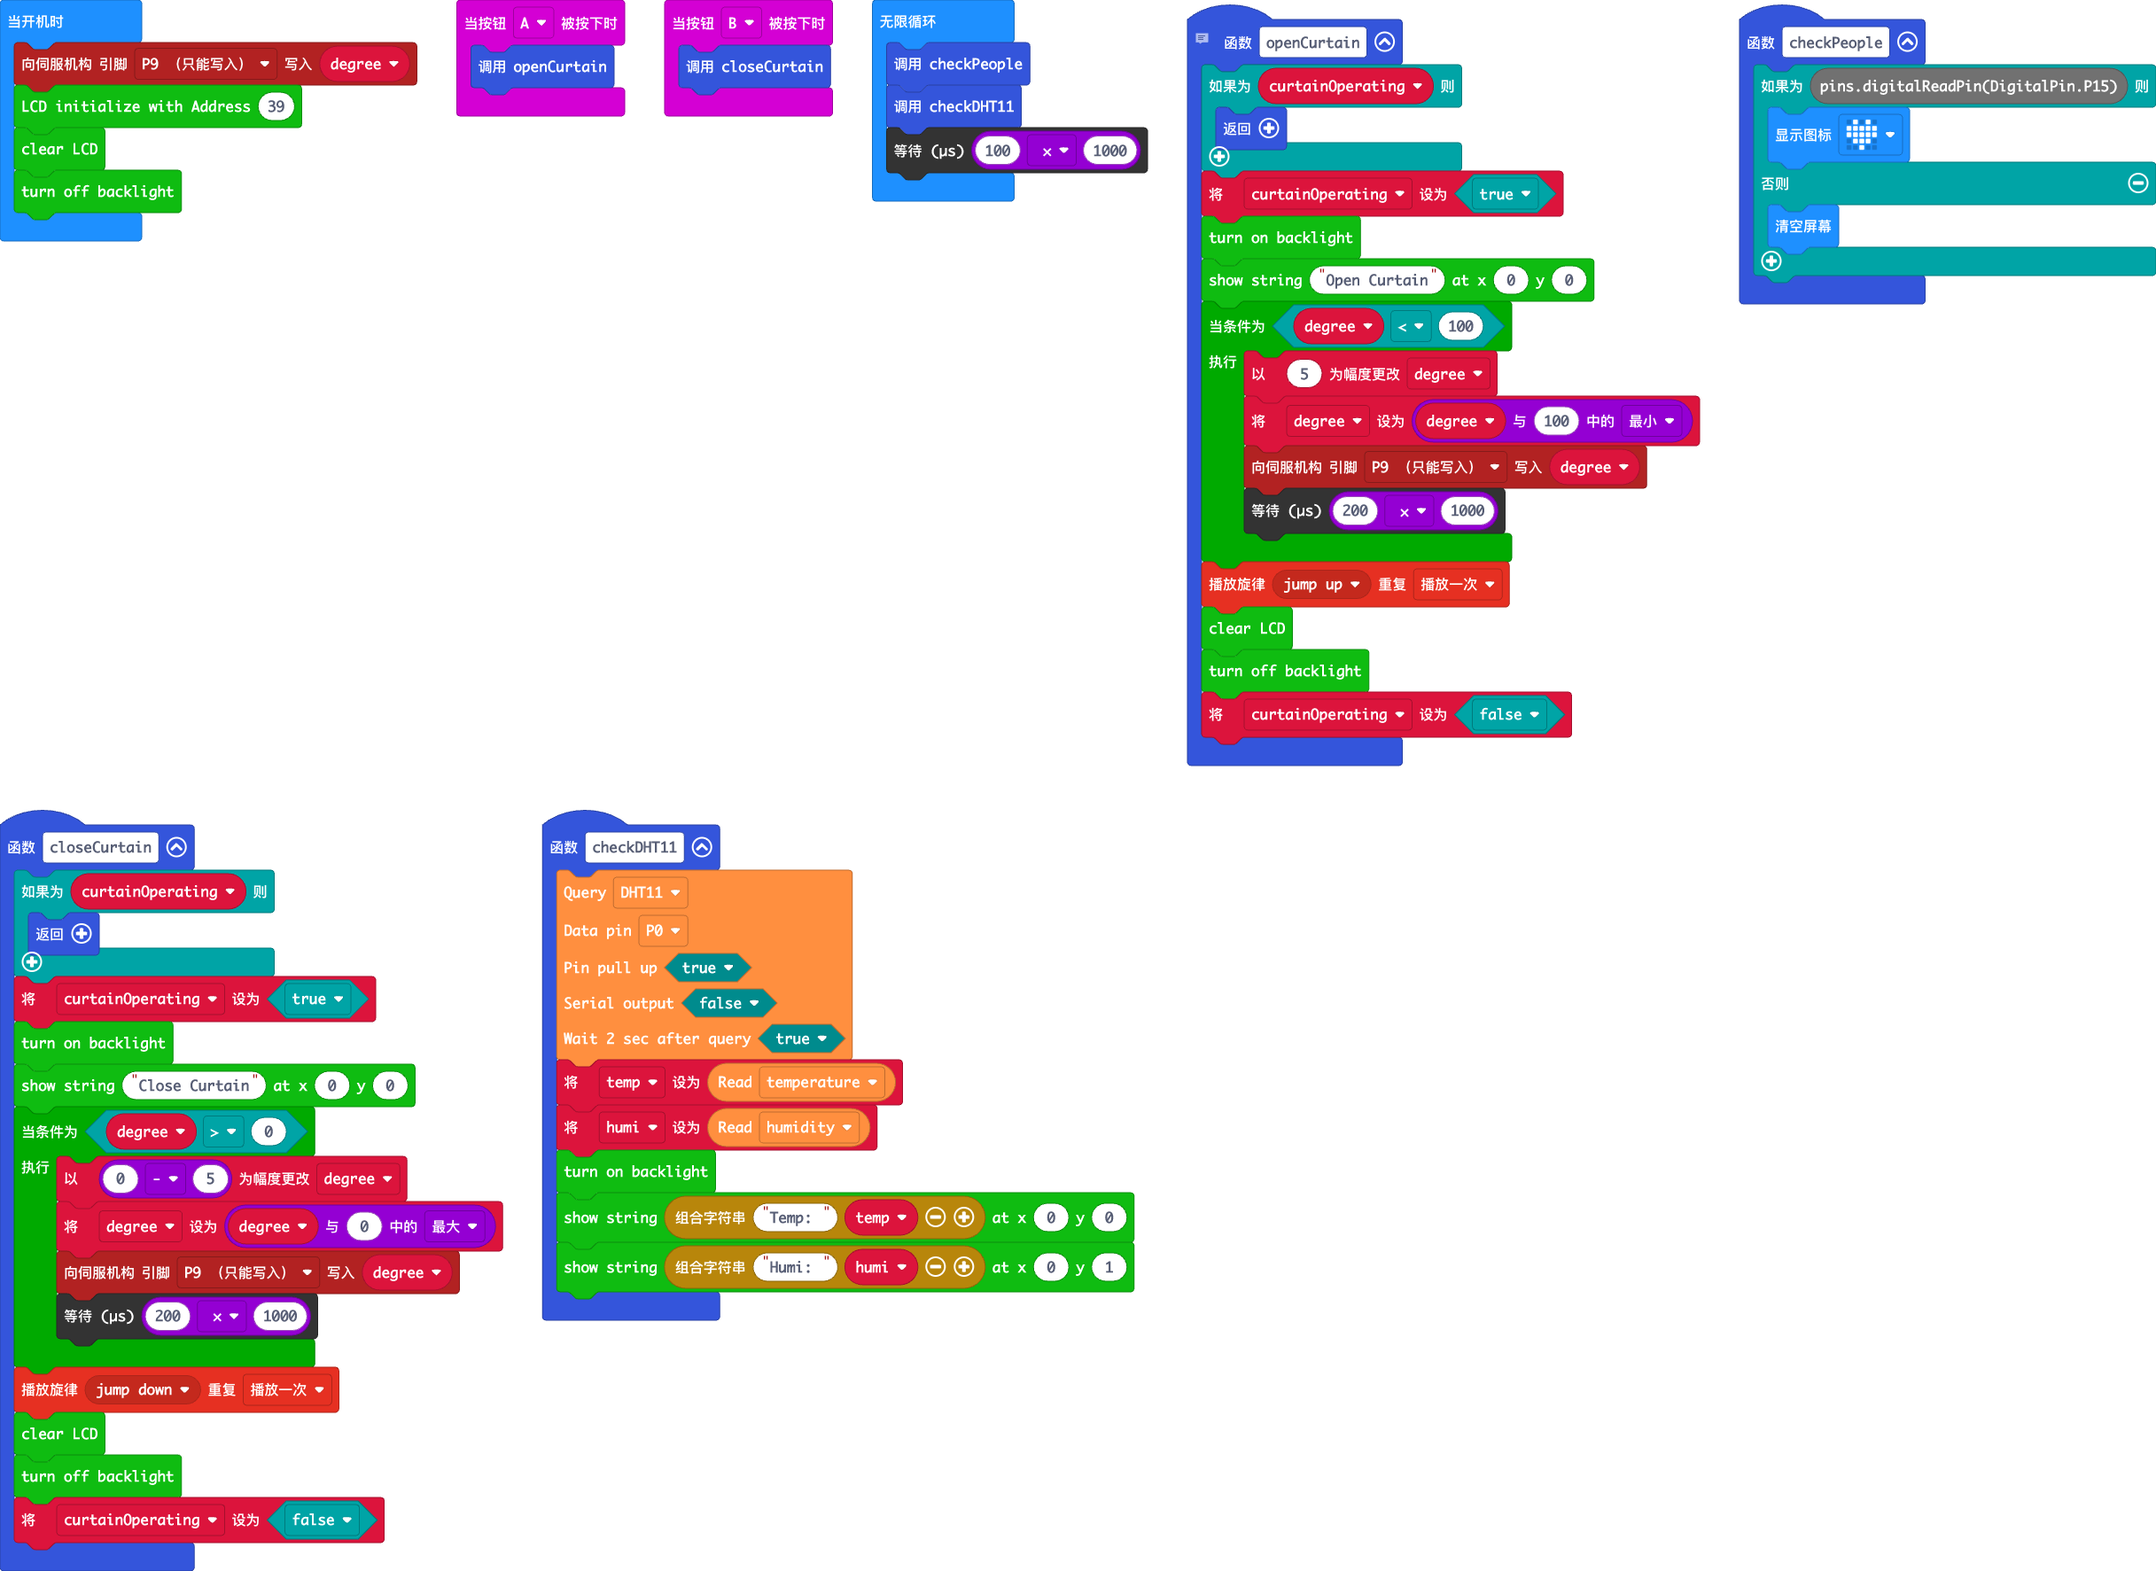
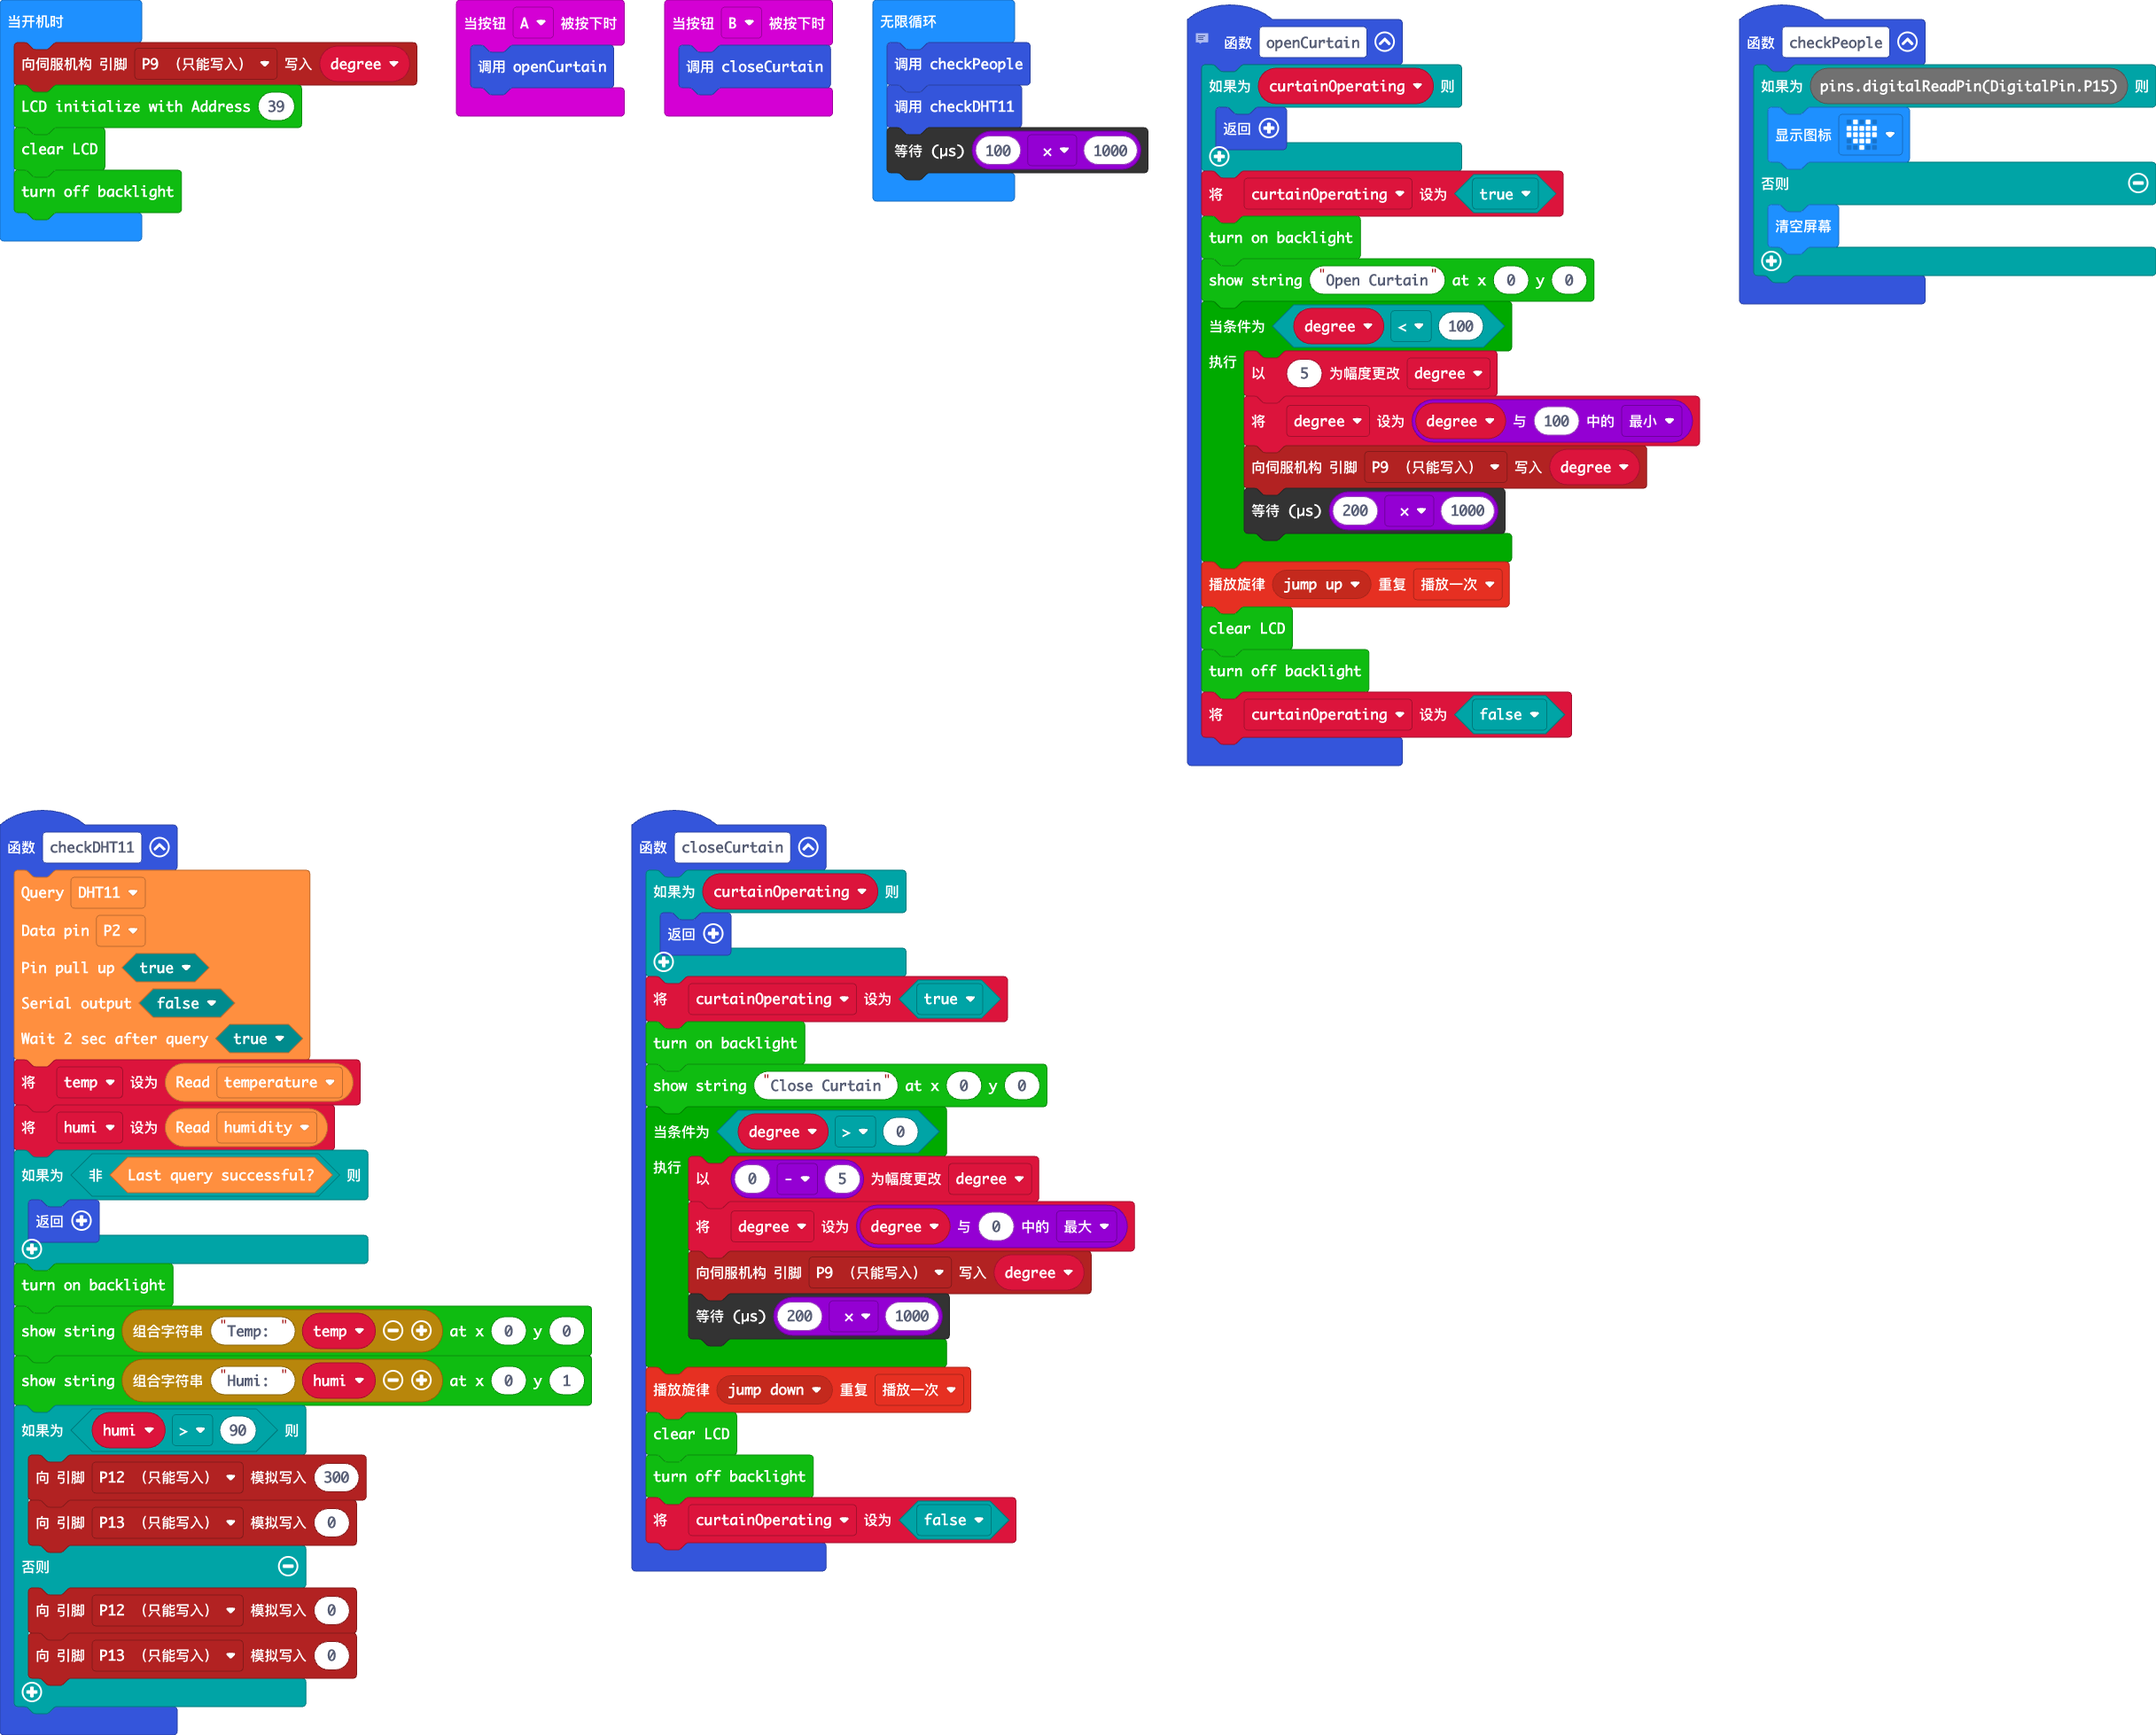
update

diff --git a/main.ts b/main.ts
@@ -5,7 +5,7 @@
 // 红外热释电传感器: P15
 // DHT11 传感器: P2
 // 电机: AnalogPin P12 + P13
-function openCurtain() {
+function openCurtain () {
     if (curtainOperating) {
         return
     }
@@ -23,14 +23,14 @@ function openCurtain() {
     I2C_LCD1602.BacklightOff()
     curtainOperating = false
 }
-function checkPeople() {
+function checkPeople () {
     if (pins.digitalReadPin(DigitalPin.P15)) {
         basic.showIcon(IconNames.Heart)
     } else {
         basic.clearScreen()
     }
 }
-function closeCurtain() {
+function closeCurtain () {
     if (curtainOperating) {
         return
     }
@@ -54,17 +54,17 @@ input.onButtonPressed(Button.A, function () {
 input.onButtonPressed(Button.B, function () {
     closeCurtain()
 })
-function checkDHT11() {
+function checkDHT11 () {
     dht11_dht22.queryData(
-        DHTtype.DHT11,
-        DigitalPin.P2,
-        true,
-        false,
-        true
+    DHTtype.DHT11,
+    DigitalPin.P2,
+    true,
+    false,
+    true
     )
     temp = dht11_dht22.readData(dataType.temperature)
     humi = dht11_dht22.readData(dataType.humidity)
-    if (!dht11_dht22.readDataSuccessful()) {
+    if (!(dht11_dht22.readDataSuccessful())) {
         return
     }
     I2C_LCD1602.BacklightOn()
